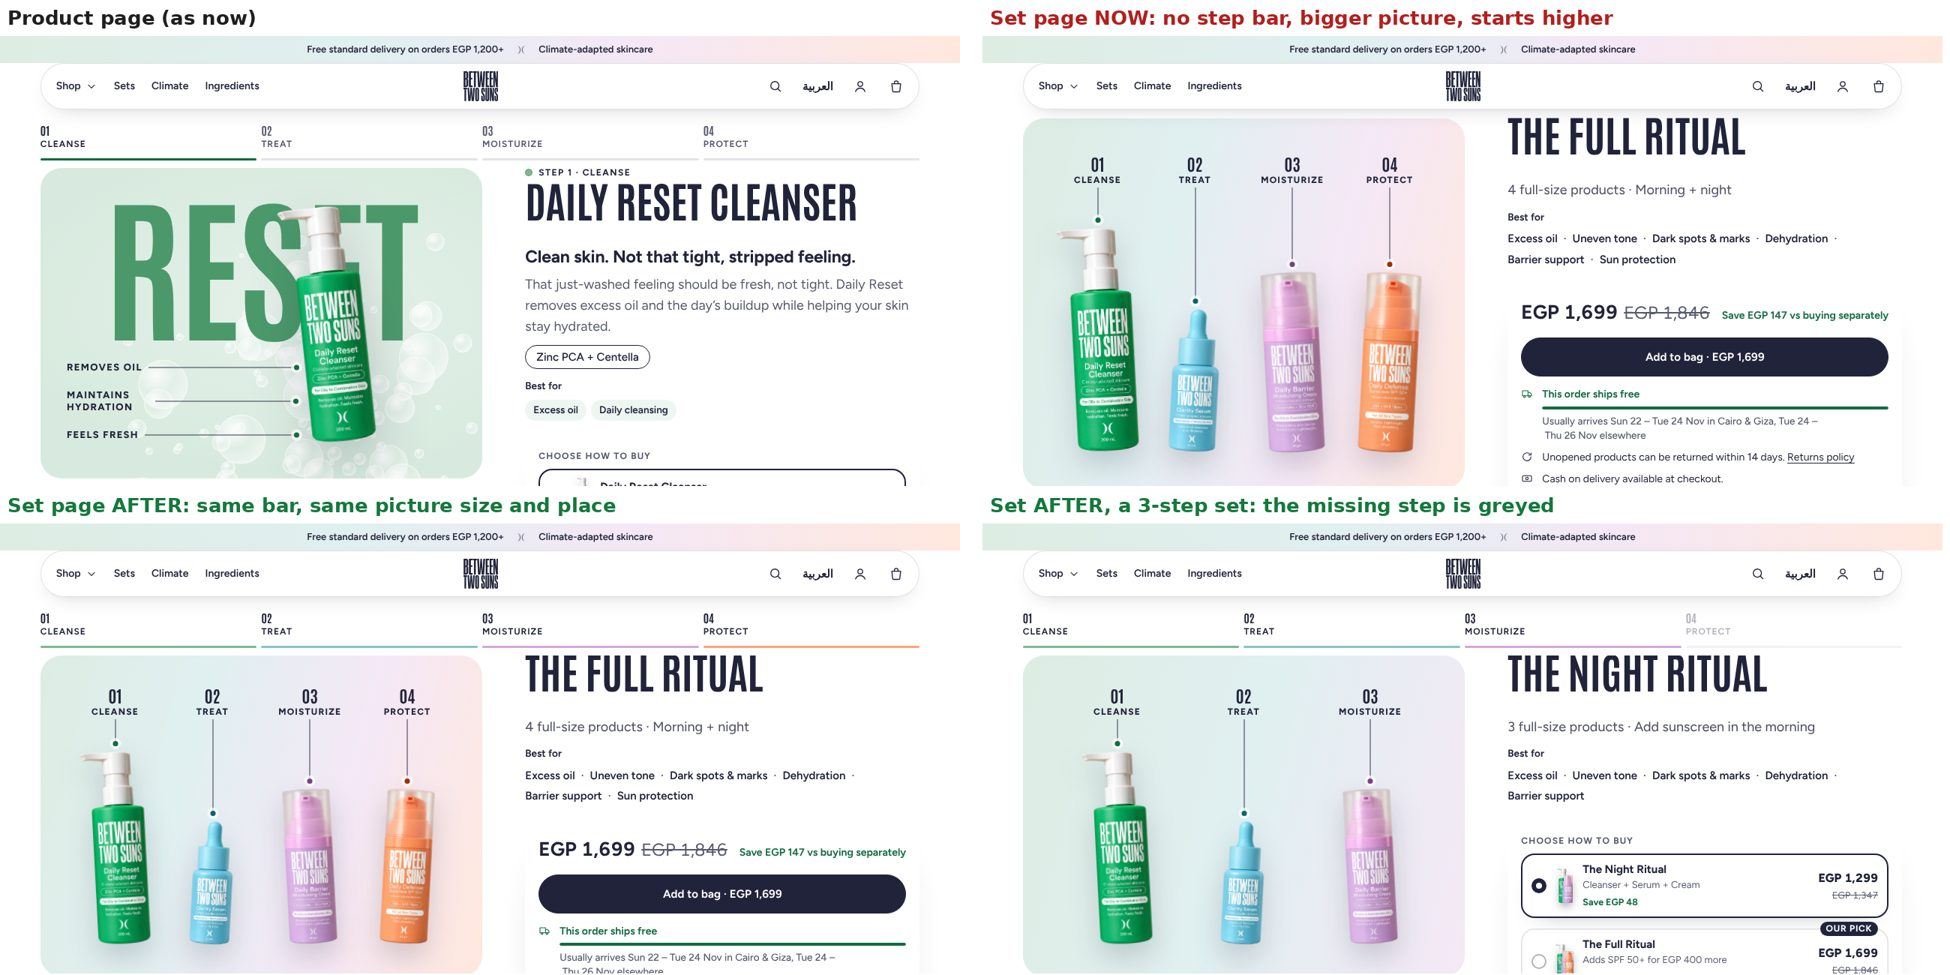
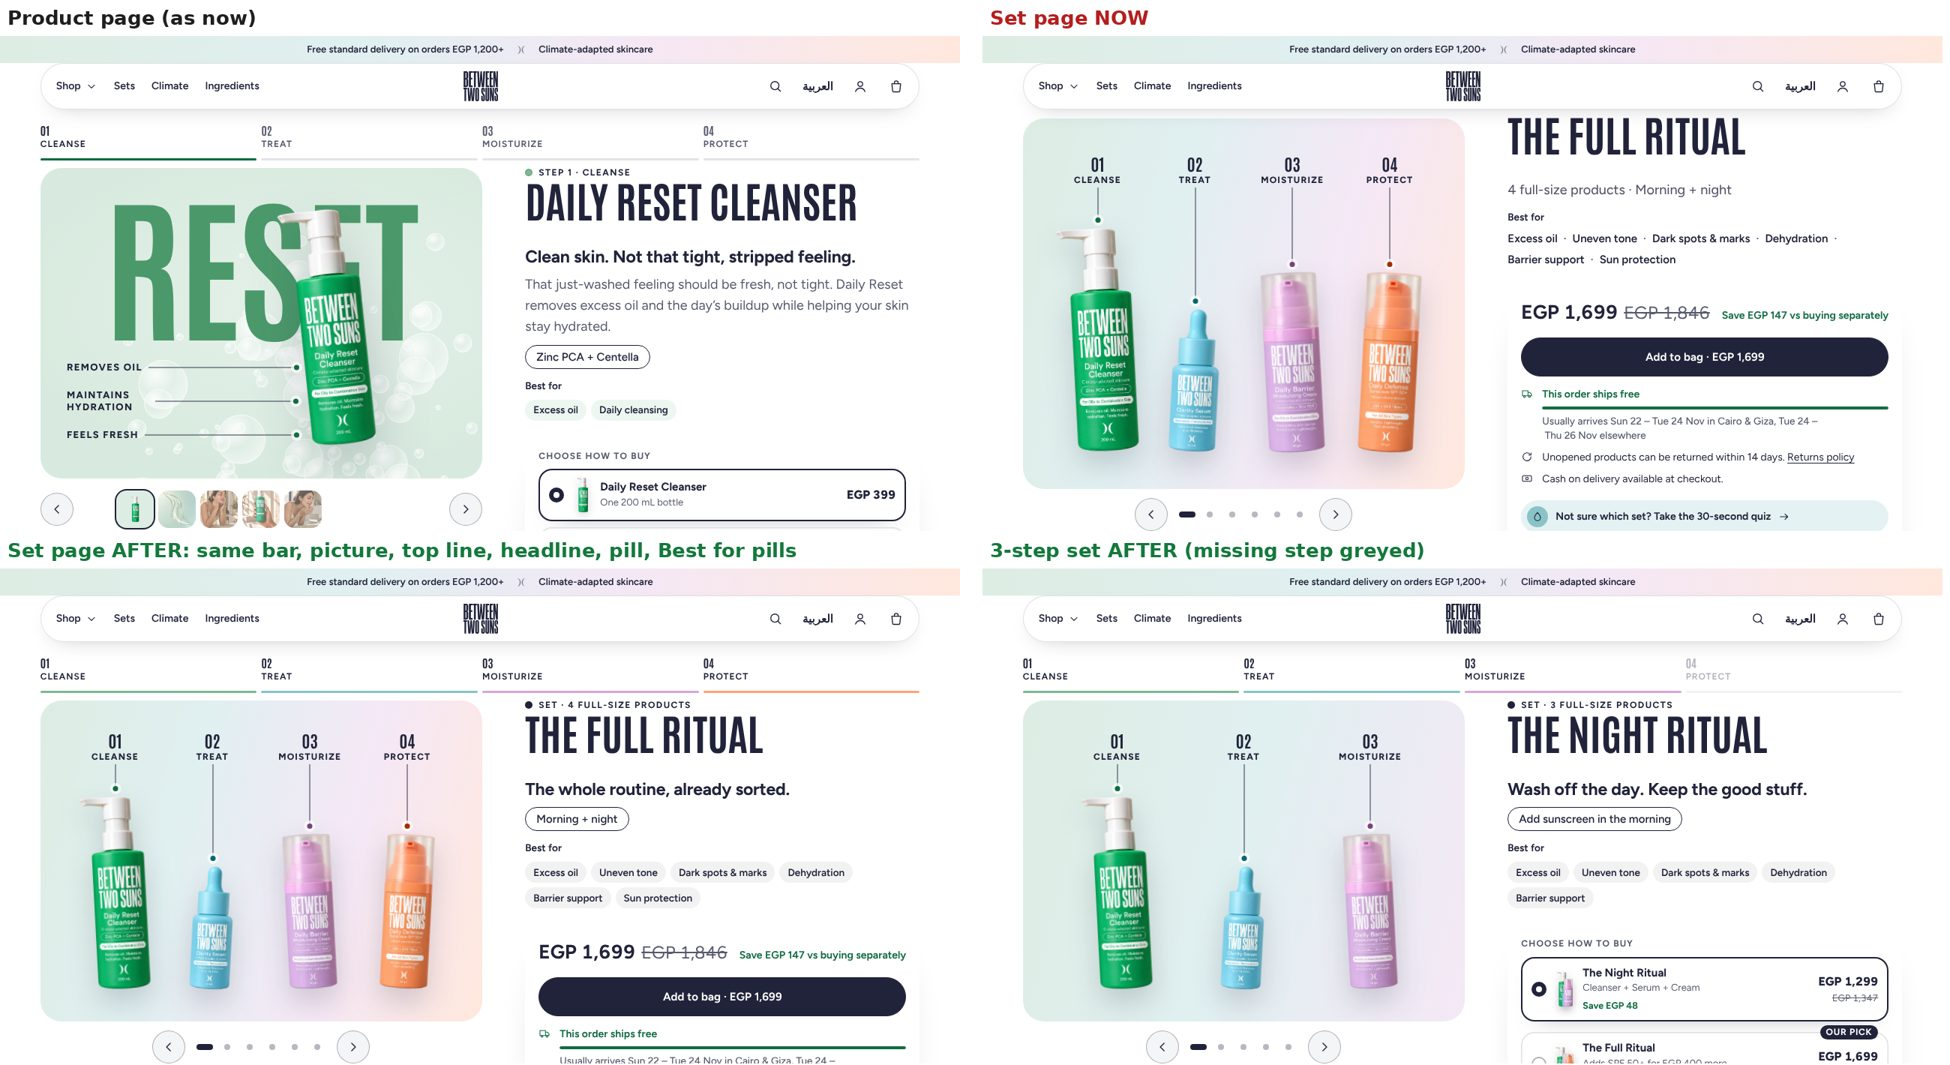
Set pages match product pages: step bar, short top line, set headline, when-pill, same Best-for pills (demo, NOT deployed); preview shows the cleanser back photo (now on the product)
Claude-Session: https://claude.ai/code/session_01LtDGGe7BHLnAUqD8k7kFm7

diff --git a/tools/preview/server.js b/tools/preview/server.js
@@ -91,7 +91,7 @@ function buildData(locale, cart) {
       url: `${prefix}/products/${p.handle}?variant=${p.variantId}`, featured_media: null,
     };
     // Same gallery order as the store (cleanser has no back shot: the old label print was detached).
-    const order = ['front.png', 'studio.jpg', 'application.jpg', 'texture.jpg', 'detail.png', 'detail-open.png', 'angle.png', p.handle === 'daily-reset-cleanser' ? '' : 'back.png', 'in-hand.jpg', 'application-2.jpg'].map((k) => `bts-${p.handle}-${k}`).filter(hasPhoto);
+    const order = ['front.png', 'studio.jpg', 'application.jpg', 'texture.jpg', 'detail.png', 'detail-open.png', 'angle.png', 'back.png', 'in-hand.jpg', 'application-2.jpg'].map((k) => `bts-${p.handle}-${k}`).filter(hasPhoto);
     const pics = order.length ? order.map((n) => new ImageDrop(photoObj(n, p.title))) : [new ImageDrop(p.photo)];
     if (order.length) p.metafields.bts.cutout = photoObj(order[0]);
     const photo = pics[0];

diff --git a/theme/assets/set-page.css b/theme/assets/set-page.css
@@ -25,10 +25,7 @@
   .pdp-break--set[style*='--n: 1'] { grid-template-columns: minmax(0, 1fr); }
   .pdp-break--set[style*='--n: 1'] .pdp-break__panel { aspect-ratio: 4 / 3; }
 }
-/* 3 · "Best for" on sets: one tidy line of words, not two rows of chips */
-.pdp--v2[data-step='0'] .v2-who__list { gap: 4px 0; }
-.pdp--v2[data-step='0'] .v2-who__list li { min-block-size: 0; padding: 0; background: none; font-size: 15px; font-weight: 600; }
-.pdp--v2[data-step='0'] .v2-who__list li:not(:last-child)::after { content: '·'; margin-inline: 8px; color: var(--c-muted); }
+/* 3 · "Best for" on sets: the same pills as the product pages (DECISIONS 311) */
 
 /* 4 · stars on sets: the rating of the products inside */
 .v2-set-rating { display: flex; flex-wrap: wrap; align-items: center; gap: 4px 8px; margin: 2px 0 0; font-size: 14.5px; color: var(--c-muted); }
